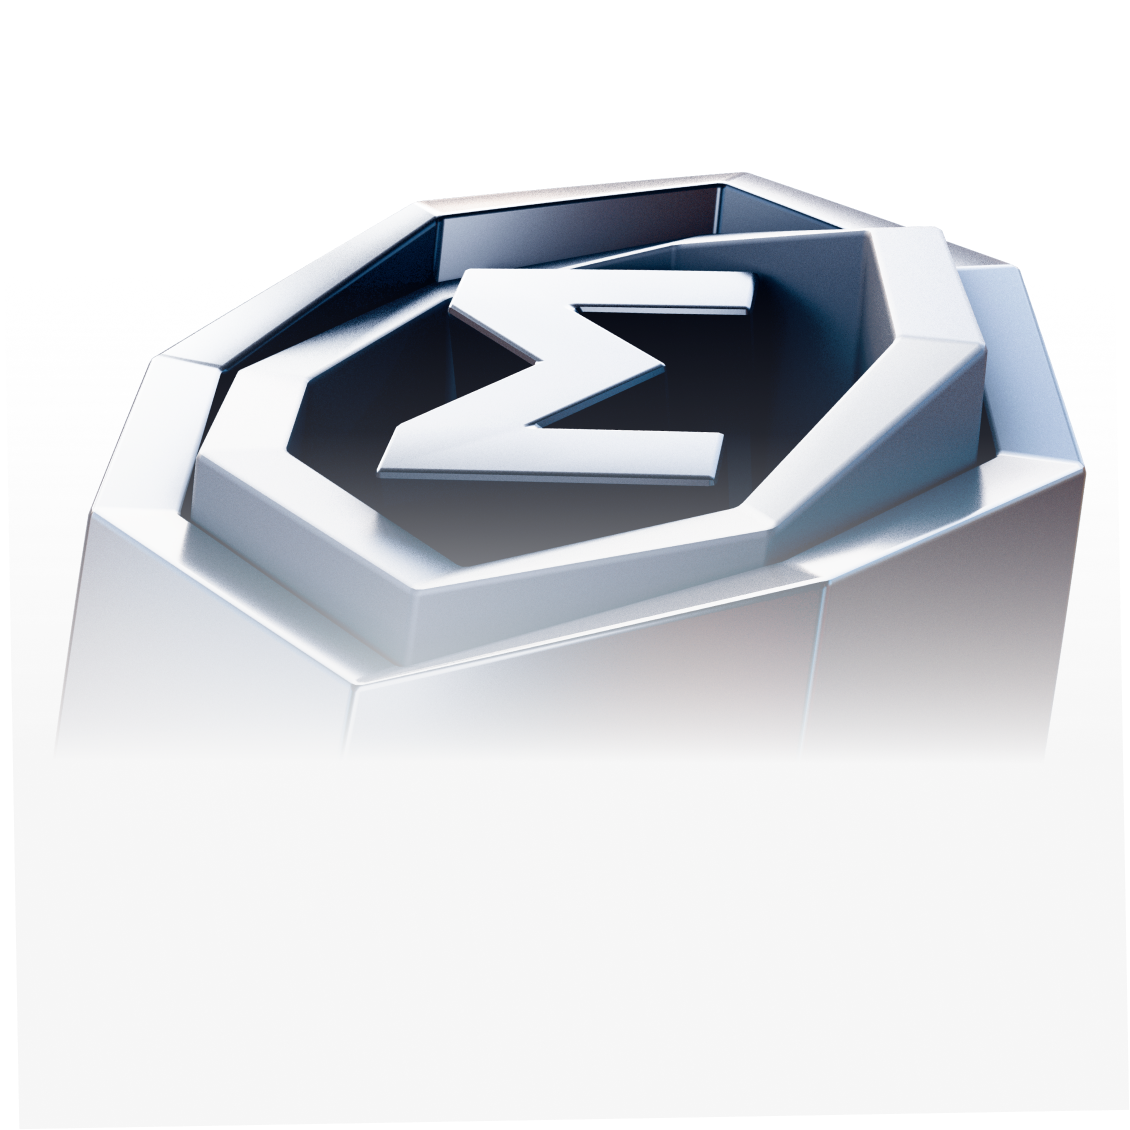
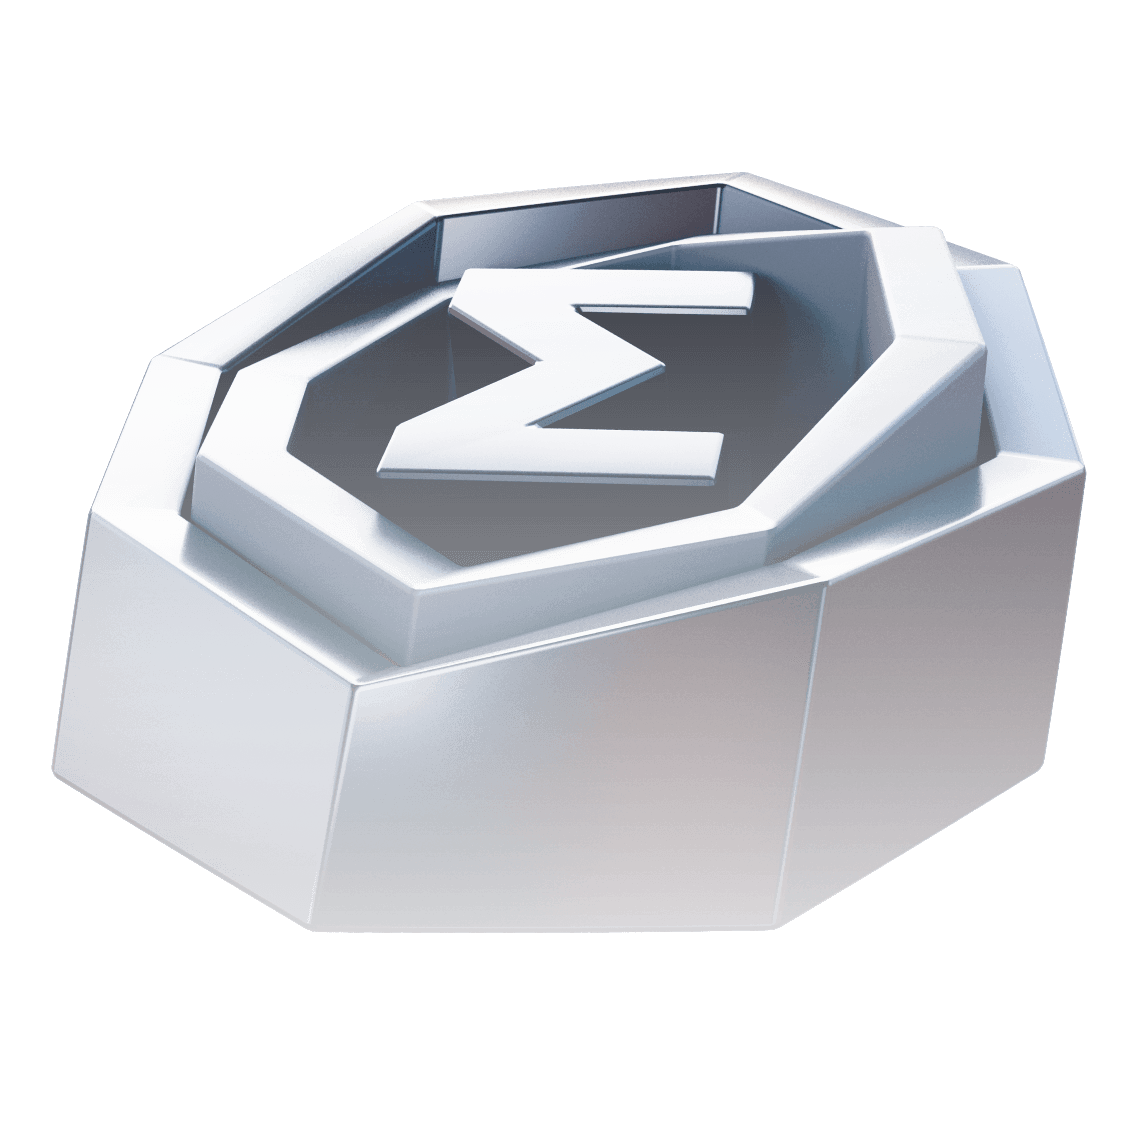
ecosystem page main img gradient and optimise

diff --git a/styles/ecosystem.scss b/styles/ecosystem.scss
@@ -4,7 +4,7 @@
   position: absolute;
   width: 1088px;
   height: 1382px;
-  top: 1500px;
+  top: 2900px;
   right: 0px;
   background: no-repeat url("/assets/ecosystem/frame-1-light.png");
 }
@@ -13,7 +13,7 @@
   position: absolute;
   width: 1088px;
   height: 1382px;
-  top: 1500px;
+  top: 2900px;
   right: 0px;
   background: no-repeat url("/assets/ecosystem/frame-1.png");
 }

diff --git a/components/ecosystem/DApps.tsx b/components/ecosystem/DApps.tsx
@@ -13,7 +13,7 @@ export default function DApps(props: Props) {
     defaultMessage: "SEE ALL PROJECTS",
   });
   return (
-    <div className="max-w-[1300px] mx-auto p-4 relative -mt-60 lg:-mt-[500px] z-10">
+    <div className="max-w-[1300px] mx-auto p-4 relative -mt-60 lg:-mt-[600px] z-10">
       <div className="lg:inline-flex">
         <h1>
           <b>DApps</b>
